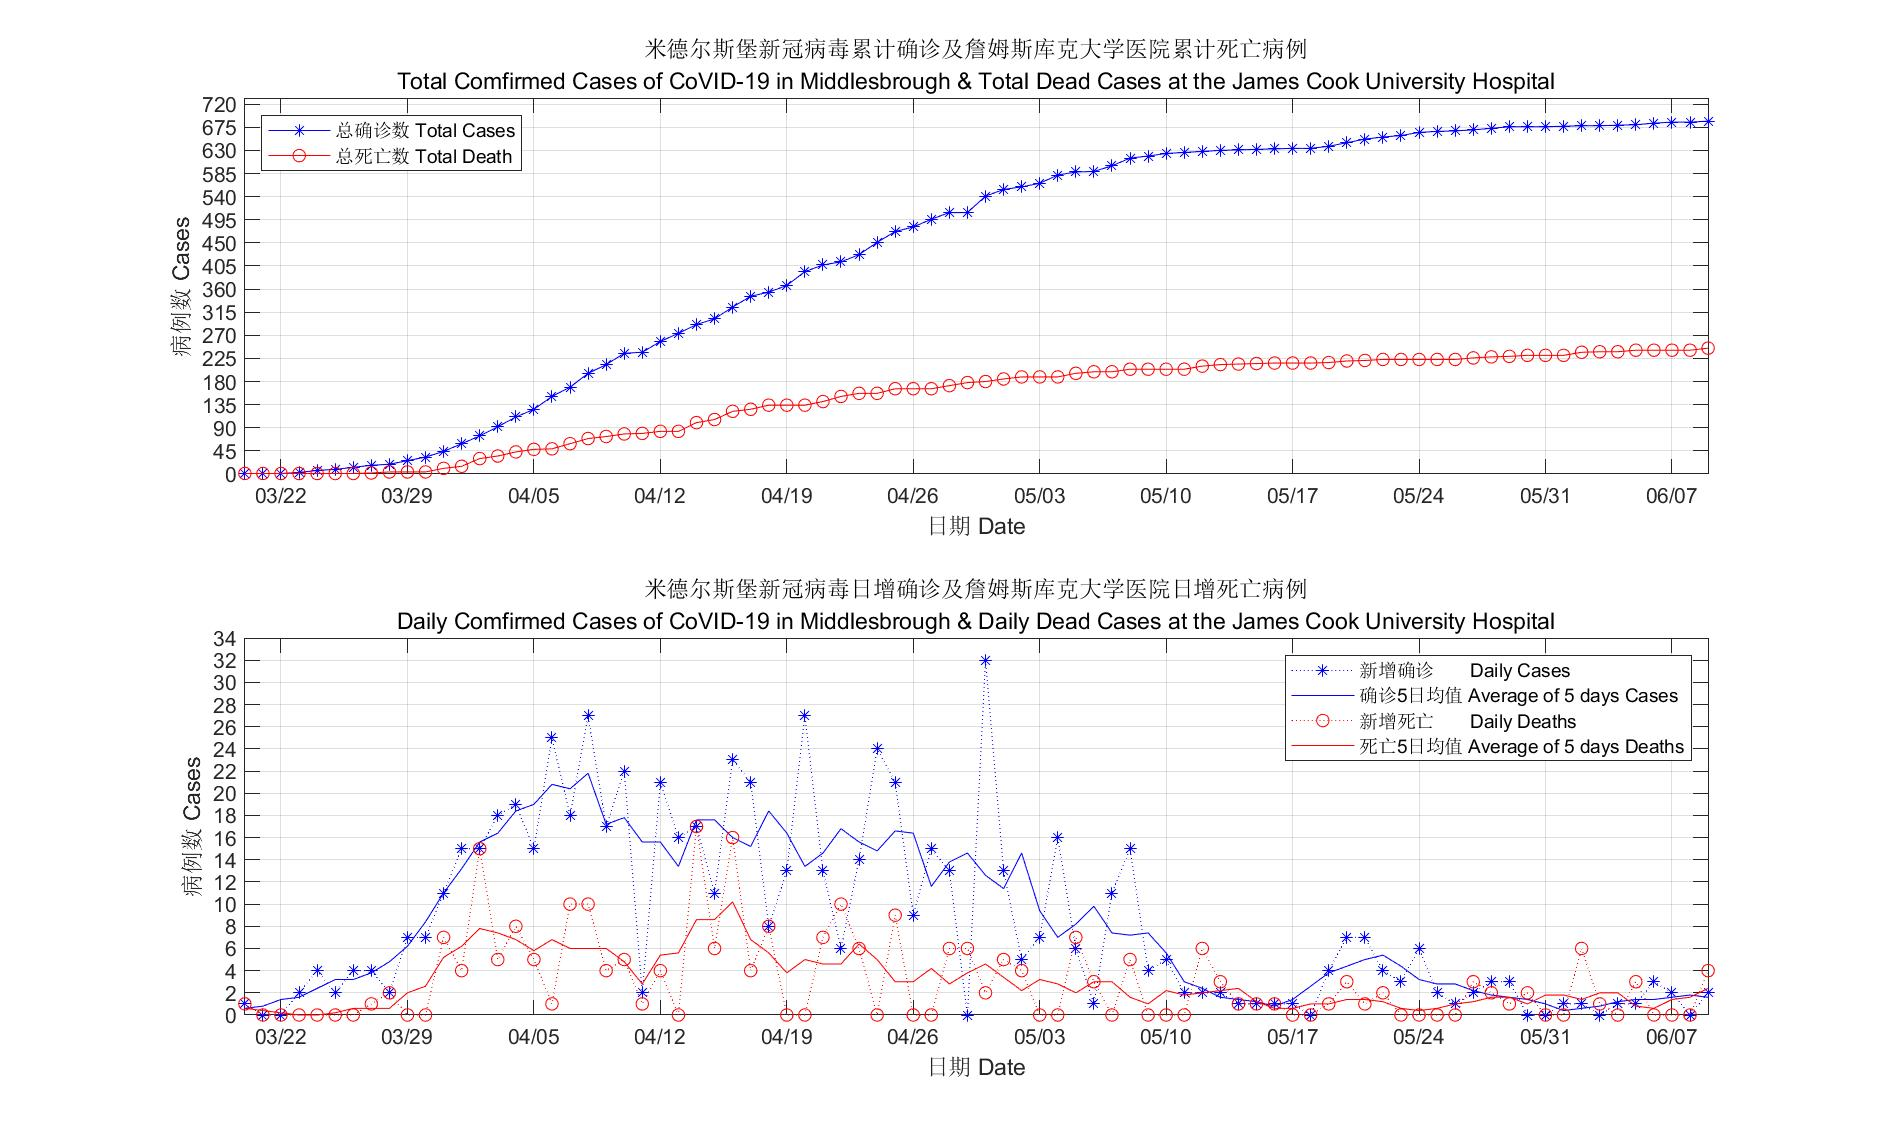
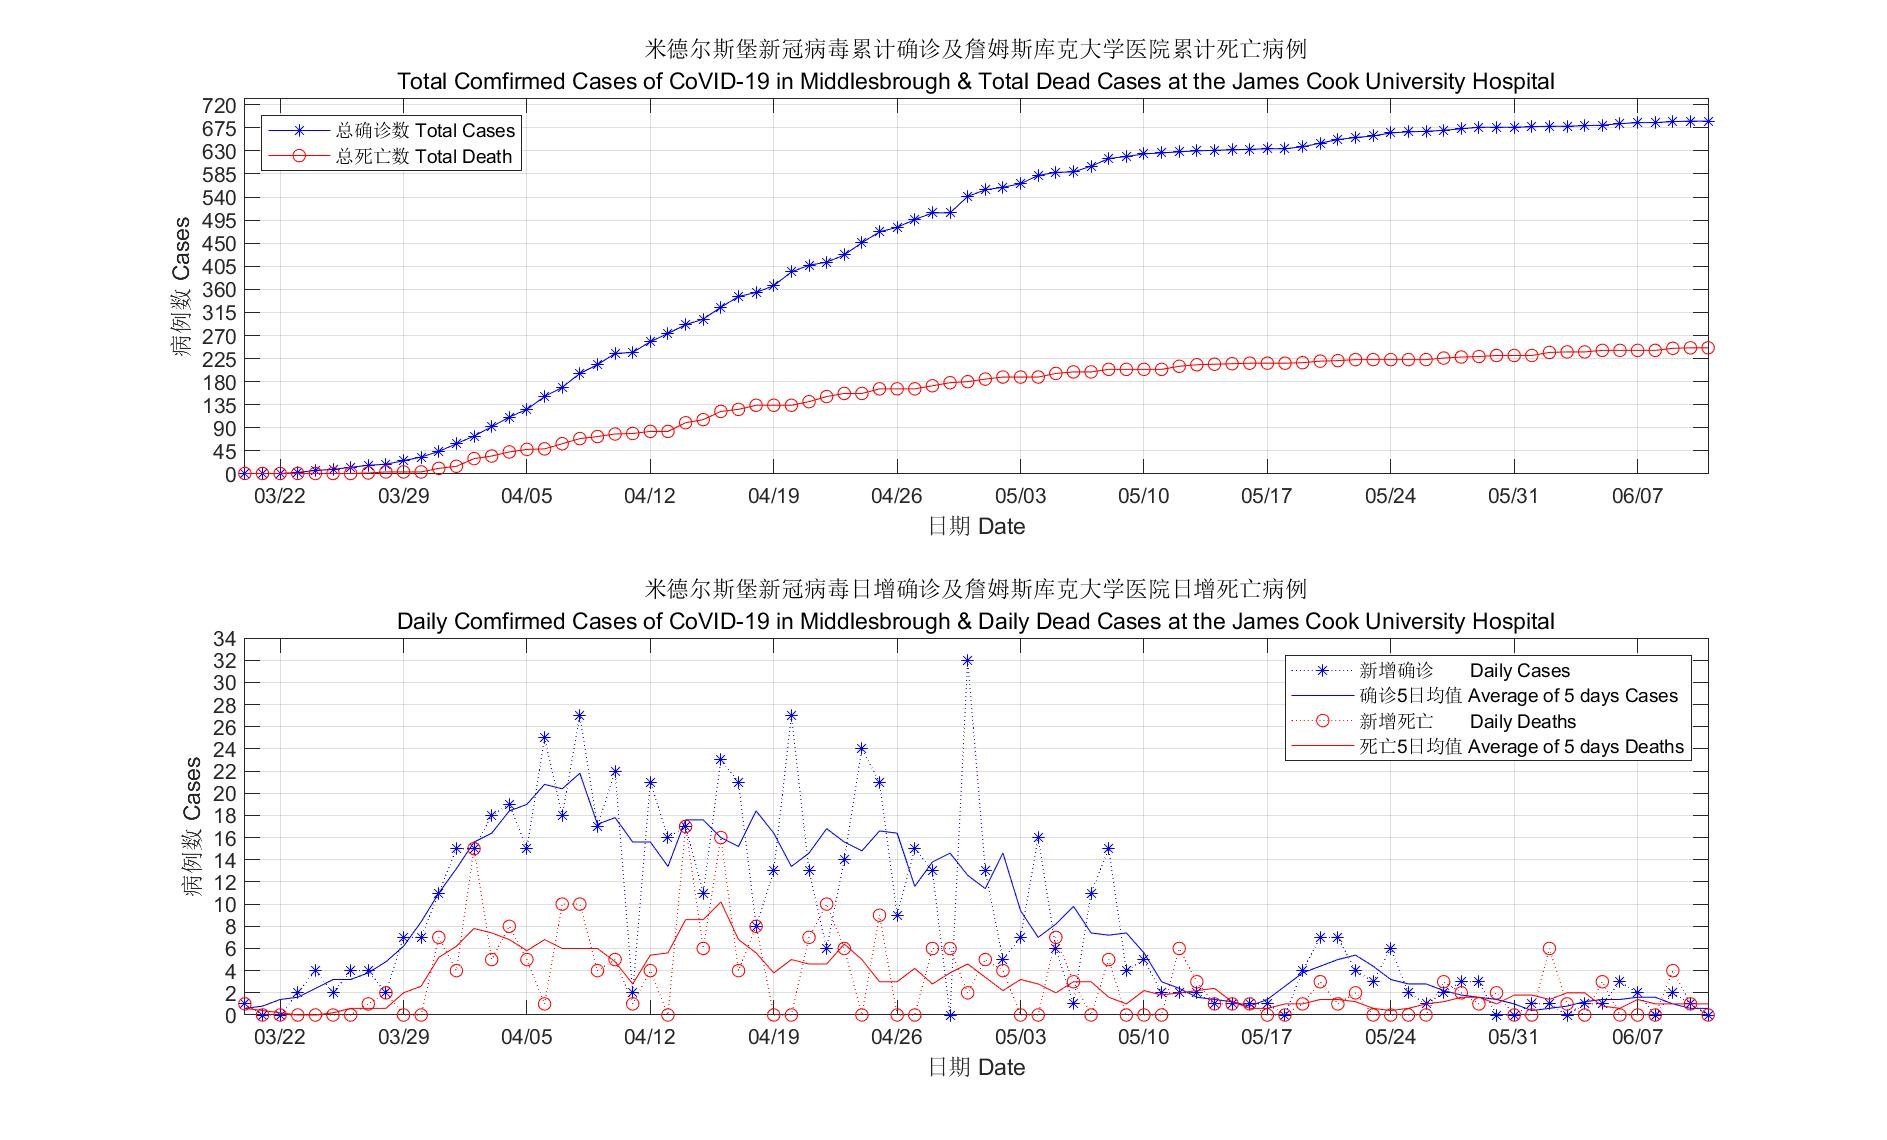
Update

diff --git a/Covid19_TS1.py b/Covid19_TS1.py
@@ -13,13 +13,13 @@ cases = [1, 1, 1, 3, 7, 9, 13, 17, 19, 26, 33, 44, 59, 74, 92, 111, 126, 151, 16
     235, 237, 258, 274, 291, 302, 325, 346, 354, 367, 394, 407, 413, 427, 451, 472, 481, 496,\
     509, 509, 541, 554, 559, 566, 582, 588, 589, 600, 615, 619, 624, 626, 628, 630, 631, 632,\
     633, 634, 634, 638, 645, 652, 656, 659, 665, 667, 668, 670, 673, 676, 676, 676, 677, 678,\
-    678, 679, 680, 683, 685, 685, 687]
+    678, 679, 680, 683, 685, 685, 687, 688, 688]
 #deaths data from NHS
 dcases = [1, 1, 1, 1, 1, 1, 1, 2, 4, 4, 4, 11, 15, 30, 35, 43, 48, 49, 59, 69, 73, 78, 79, 83,\
     83, 100, 106, 122, 126, 134, 134, 134, 141, 151, 157, 157, 166, 166, 166, 172, 178, 180,\
     185, 189, 189, 189, 196, 199, 199, 204, 204, 204, 204, 210, 213, 214, 215, 216, 216, 216,\
     217, 220, 221, 223, 223, 223, 223, 223, 226, 228, 229, 231, 231, 231, 237, 238, 238, 241,\
-    241, 241, 241, 245]
+    241, 241, 241, 245, 246, 246]
 
 #Initial
 #Date config

diff --git a/covid19_TS1.m b/covid19_TS1.m
@@ -9,13 +9,13 @@ cases = [1 1 1 3 7 9 13 17 19 26 33 44 59 74 92 111 126 151 169 196 213 ...
     235 237 258 274 291 302 325 346 354 367 394 407 413 427 451 472 481 ...
     496 509 509 541 554 559 566 582 588 589 600 615 619 624 626 628 630 ...
     631 632 633 634 634 638 645 652 656 659 665 667 668 670 673 676 676 ...
-    676 677 678 678 679 680 683 685 685 687];
+    676 677 678 678 679 680 683 685 685 687 688 688];
 %deaths data from NHS
 dcases = [1 1 1 1 1 1 1 2 4 4 4 11 15 30 35 43 48 49 59 69 73 78 79 83 ...
     83 100 106 122 126 134 134 134 141 151 157 157 166 166 166 172 178 ...
     180 185 189 189 189 196 199 199 204 204 204 204 210 213 214 215 216 ...
     216 216 217 220 221 223 223 223 223 223 226 228 229 231 231 231 237 ...
-    238 238 241 241 241 241 245];
+    238 238 241 241 241 241 245 246 246];
 
 %Initial
 %Date config
